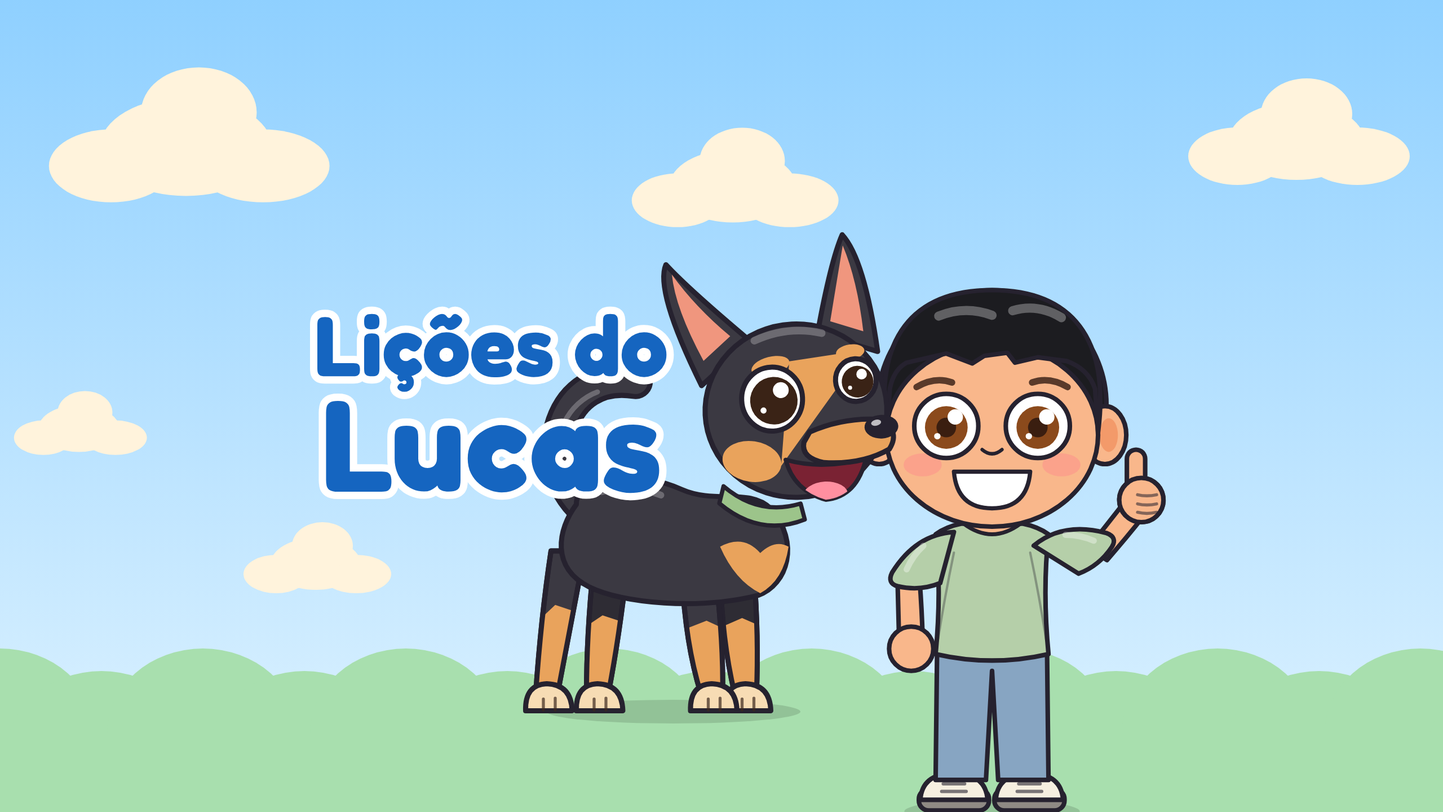
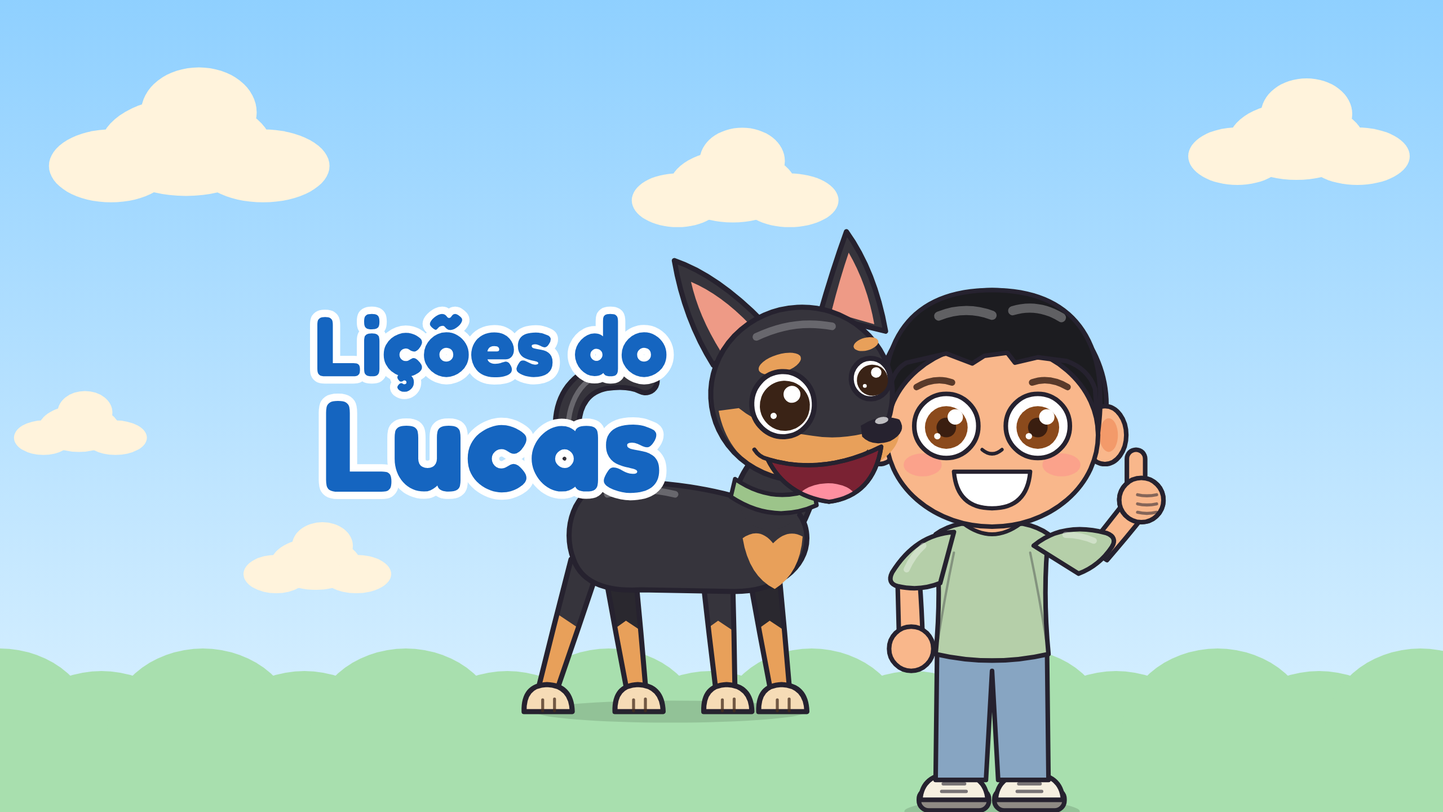
Redraw the Pinscher dog to match the reference more closely
Claude-Session: https://claude.ai/code/session_01EjseYyHodshHVuN5bkj3fj

Changed region(s): [[0.3438, 0.2812, 0.625, 0.9062]]

diff --git a/episodios/ep01-nariz-azul/common.js b/episodios/ep01-nariz-azul/common.js
@@ -442,67 +442,76 @@ function drawLuq(p) {
   ctx.restore();
 }
 
-// ---------- Pinscher dog (black & tan), reference coords: paws at y~1240 ----------
+// ---------- Pinscher dog (black & tan), reference coords: paws on ground y=1190, center x=470 ----------
 function drawPin(p) {
   const OL = 12, S = (f, fn, lw = OL) => shape(f, fn, lw);
-  const blk = '#3b3942', blk2 = '#2e2c34', tan = '#e9a35c', light = '#f7dcb4', pink = '#f0967e';
-  ctx.save(); ctx.translate(p.x, p.y); const sc = (p.s || 1) * 0.5; ctx.scale(sc * (p.flip ? -1 : 1), sc); ctx.translate(-560, -1240);
+  const blk = '#36343c', blk2 = '#2a282f', tan = '#e8a05a', paw = '#f6dcb6', pink = '#ee9a86';
+  ctx.save(); ctx.translate(p.x, p.y); const sc = (p.s || 1) * 0.5; ctx.scale(sc * (p.flip ? -1 : 1), sc); ctx.translate(-470, -1190);
   const t = p.t || 0;
-  ctx.fillStyle = 'rgba(0,0,0,0.13)'; ctx.beginPath(); ctx.ellipse(500, 1240, 300, 28, 0, 0, 7); ctx.fill();
-  // tapered leg with tan "sock" and light paw
-  const leg = (x, top, dx, col) => {
-    const bx = x + dx;
-    const path = () => { ctx.moveTo(x - 40, top); ctx.quadraticCurveTo(x - 44 + dx * 0.4, top + 160, bx - 26, 1196); ctx.lineTo(bx + 26, 1196); ctx.quadraticCurveTo(x + 40 + dx * 0.6, top + 160, x + 40, top); ctx.closePath(); };
-    S(col, path);
-    ctx.save(); ctx.beginPath(); path(); ctx.clip();
-    ctx.fillStyle = tan; ctx.beginPath(); ctx.moveTo(x - 80, 1240); ctx.lineTo(x - 80, top + (1196 - top) * 0.52); ctx.lineTo(x + dx * 0.6, top + (1196 - top) * 0.38); ctx.lineTo(x + 90, top + (1196 - top) * 0.5); ctx.lineTo(x + 90, 1240); ctx.closePath(); ctx.fill();
-    ctx.restore(); S(null, path);
-    S(light, () => { ctx.moveTo(bx - 50, 1238); ctx.quadraticCurveTo(bx - 52, 1176, bx, 1174); ctx.quadraticCurveTo(bx + 58, 1176, bx + 60, 1238); ctx.closePath(); });
-    ctx.strokeStyle = 'rgba(60,40,30,0.7)'; ctx.lineWidth = 7; ctx.beginPath(); ctx.moveTo(bx - 8, 1210); ctx.lineTo(bx - 8, 1236); ctx.moveTo(bx + 20, 1208); ctx.lineTo(bx + 20, 1236); ctx.stroke();
-  };
-  leg(350, 900, -30, blk2); leg(650, 910, 20, blk2); leg(250, 860, -50, blk); leg(560, 920, 30, blk);
-  ctx.save(); ctx.translate(0, 60);
+  ctx.fillStyle = 'rgba(0,0,0,0.13)'; ctx.beginPath(); ctx.ellipse(470, 1190, 320, 26, 0, 0, 7); ctx.fill();
   // tail
-  ctx.save(); ctx.translate(290, 700); ctx.rotate(Math.sin(t * 9) * 0.15);
-  ctx.lineCap = 'round'; ctx.beginPath(); ctx.moveTo(0, 0); ctx.bezierCurveTo(-120, -110, -60, -330, 120, -300);
-  ctx.lineWidth = 58 + OL * 2; ctx.strokeStyle = INK; ctx.stroke(); ctx.lineWidth = 58; ctx.strokeStyle = blk; ctx.stroke();
-  ctx.lineWidth = 12; ctx.strokeStyle = 'rgba(255,255,255,0.25)'; ctx.beginPath(); ctx.moveTo(-60, -90); ctx.bezierCurveTo(-80, -170, -40, -250, 30, -276); ctx.stroke();
+  ctx.save(); ctx.translate(285, 660); ctx.rotate(Math.sin(t * 9) * 0.15);
+  const tailPath = () => { ctx.beginPath(); ctx.moveTo(0, 0); ctx.bezierCurveTo(-80, -80, -90, -240, 30, -262); ctx.quadraticCurveTo(90, -270, 125, -252); };
+  ctx.lineCap = 'round'; tailPath(); ctx.lineWidth = 44 + OL * 2; ctx.strokeStyle = INK; ctx.stroke(); tailPath(); ctx.lineWidth = 44; ctx.strokeStyle = blk; ctx.stroke();
+  ctx.lineWidth = 12; ctx.strokeStyle = 'rgba(255,255,255,0.25)'; ctx.beginPath(); ctx.moveTo(-52, -90); ctx.bezierCurveTo(-72, -170, -40, -250, 20, -268); ctx.stroke();
   ctx.restore();
-  // body
-  S(blk, () => { ctx.moveTo(270, 690); ctx.bezierCurveTo(270, 610, 420, 610, 520, 655); ctx.bezierCurveTo(600, 690, 680, 650, 730, 700); ctx.bezierCurveTo(800, 780, 770, 880, 700, 905); ctx.bezierCurveTo(560, 940, 380, 925, 300, 885); ctx.bezierCurveTo(210, 840, 225, 750, 270, 690); ctx.closePath(); });
-  S(tan, () => { ctx.moveTo(610, 790); ctx.quadraticCurveTo(665, 760, 705, 805); ctx.quadraticCurveTo(740, 772, 772, 790); ctx.quadraticCurveTo(760, 870, 705, 900); ctx.quadraticCurveTo(645, 870, 610, 790); ctx.closePath(); }, 0);
-  ctx.strokeStyle = 'rgba(255,255,255,0.25)'; ctx.lineWidth = 16; ctx.lineCap = 'round'; ctx.beginPath(); ctx.moveTo(330, 660); ctx.quadraticCurveTo(400, 640, 470, 668); ctx.stroke();
+  // legs: tapered, black on top, tan "sock" below, light paw with toes
+  const leg = (xt, top, xb, col) => {
+    const yb = 1150;
+    const path = () => { ctx.moveTo(xt - 36, top); ctx.quadraticCurveTo((xt + xb) / 2 - 30, (top + yb) / 2, xb - 22, yb); ctx.lineTo(xb + 22, yb); ctx.quadraticCurveTo((xt + xb) / 2 + 30, (top + yb) / 2, xt + 36, top); ctx.closePath(); };
+    ctx.beginPath(); path(); ctx.fillStyle = col; ctx.fill();
+    ctx.save(); ctx.beginPath(); path(); ctx.clip();
+    const ys = top + (yb - top) * 0.5, mx = (xt + xb) / 2 + (xb - xt) * 0.1;
+    ctx.fillStyle = tan; ctx.beginPath(); ctx.moveTo(mx - 80, 1200); ctx.lineTo(mx - 80, ys + 20); ctx.lineTo(mx - 10, ys - 30); ctx.lineTo(mx + 80, ys + 30); ctx.lineTo(mx + 80, 1200); ctx.closePath(); ctx.fill();
+    ctx.restore();
+    S(null, path);
+    S(paw, () => { ctx.moveTo(xb - 52, 1190); ctx.quadraticCurveTo(xb - 54, 1128, xb + 2, 1126); ctx.quadraticCurveTo(xb + 60, 1128, xb + 62, 1190); ctx.closePath(); });
+    ctx.strokeStyle = 'rgba(70,45,30,0.75)'; ctx.lineWidth = 7; ctx.lineCap = 'round';
+    ctx.beginPath(); ctx.moveTo(xb - 8, 1162); ctx.lineTo(xb - 8, 1188); ctx.moveTo(xb + 20, 1160); ctx.lineTo(xb + 20, 1188); ctx.stroke();
+  };
+  leg(350, 860, 390, blk2); leg(690, 860, 730, blk2);
+  leg(270, 830, 175, blk); leg(580, 860, 600, blk);
+  // neck + body
+  S(blk, () => { ctx.moveTo(610, 720); ctx.quadraticCurveTo(630, 610, 700, 560); ctx.lineTo(830, 600); ctx.quadraticCurveTo(810, 700, 770, 770); ctx.closePath(); });
+  S(blk, () => { ctx.moveTo(650, 690); ctx.bezierCurveTo(560, 660, 420, 640, 320, 650); ctx.bezierCurveTo(240, 660, 212, 760, 240, 830); ctx.bezierCurveTo(262, 892, 330, 906, 400, 902); ctx.lineTo(620, 906); ctx.bezierCurveTo(722, 906, 792, 850, 792, 780); ctx.bezierCurveTo(792, 730, 760, 700, 720, 680); ctx.closePath(); });
+  // hide the seam between neck and body
+  ctx.fillStyle = blk; ctx.beginPath(); ctx.ellipse(705, 700, 70, 60, 0, 0, 7); ctx.fill();
+  S(tan, () => { ctx.moveTo(640, 780); ctx.quadraticCurveTo(680, 752, 712, 792); ctx.quadraticCurveTo(746, 756, 782, 776); ctx.quadraticCurveTo(776, 862, 716, 900); ctx.quadraticCurveTo(655, 870, 640, 780); ctx.closePath(); }, 0);
+  ctx.strokeStyle = 'rgba(255,255,255,0.25)'; ctx.lineWidth = 16; ctx.lineCap = 'round'; ctx.beginPath(); ctx.moveTo(320, 676); ctx.quadraticCurveTo(400, 656, 480, 676); ctx.stroke();
+  // collar
+  S('#9cc48a', () => { ctx.moveTo(622, 640); ctx.quadraticCurveTo(712, 702, 808, 662); ctx.lineTo(815, 702); ctx.quadraticCurveTo(712, 748, 612, 682); ctx.closePath(); }, 10);
   // head
-  ctx.save(); ctx.translate(760, 680); ctx.rotate(p.tilt || 0); ctx.translate(-760, -680);
-  for (const [bx1, by1, tx, ty, bx2, by2] of [[580, 400, 510, 110, 700, 300], [860, 290, 930, 60, 1000, 340]]) {
-    S(blk, () => { ctx.moveTo(bx1, by1); ctx.quadraticCurveTo(tx - 30, ty + 60, tx, ty); ctx.quadraticCurveTo(tx + 50, ty + 60, bx2, by2); ctx.closePath(); });
-    const cx = (bx1 + bx2 + tx) / 3, cy = (by1 + by2 + ty) / 3;
-    ctx.fillStyle = pink; ctx.beginPath(); ctx.moveTo(cx + (bx1 - cx) * 0.55, cy + (by1 - cy) * 0.55); ctx.quadraticCurveTo(cx + (tx - cx) * 0.6 - 18, cy + (ty - cy) * 0.6 + 40, cx + (tx - cx) * 0.85, cy + (ty - cy) * 0.85); ctx.quadraticCurveTo(cx + (tx - cx) * 0.6 + 30, cy + (ty - cy) * 0.6 + 40, cx + (bx2 - cx) * 0.55, cy + (by2 - cy) * 0.55); ctx.closePath(); ctx.fill();
-  }
-  S('#9cc48a', () => { ctx.moveTo(620, 640); ctx.quadraticCurveTo(700, 715, 800, 690); ctx.lineTo(808, 728); ctx.quadraticCurveTo(700, 765, 608, 680); ctx.closePath(); }, 10);
-  S(blk, ell(800, 470, 215, 205));
-  ctx.strokeStyle = 'rgba(255,255,255,0.25)'; ctx.lineWidth = 18; ctx.beginPath(); ctx.moveTo(710, 300); ctx.quadraticCurveTo(790, 268, 870, 290); ctx.stroke();
-  // cheek + brow tan marks
-  ctx.fillStyle = tan; ctx.beginPath(); ctx.ellipse(690, 585, 70, 48, 0.2, 0, 7); ctx.ellipse(745, 362, 46, 22, -0.2, 0, 7); ctx.ellipse(935, 338, 34, 18, -0.1, 0, 7); ctx.fill();
-  // mouth (under the snout)
-  const open = p.talk ? 0.5 + p.talk * 0.7 : 1;
-  S('#7a2233', () => { ctx.moveTo(770, 585); ctx.quadraticCurveTo(860, 615, 960, 590); ctx.quadraticCurveTo(935, 590 + 90 * open, 860, 594 + 90 * open); ctx.quadraticCurveTo(785, 588 + 70 * open, 770, 585); ctx.closePath(); }, 10);
-  ctx.save(); ctx.beginPath(); ctx.moveTo(770, 585); ctx.quadraticCurveTo(860, 615, 960, 590); ctx.quadraticCurveTo(935, 590 + 90 * open, 860, 594 + 90 * open); ctx.quadraticCurveTo(785, 588 + 70 * open, 770, 585); ctx.clip();
-  ctx.fillStyle = '#ff8fa0'; ctx.beginPath(); ctx.ellipse(860, 590 + 85 * open, 54, 34, 0, 0, 7); ctx.fill(); ctx.restore();
-  // snout
-  S(tan, () => { ctx.moveTo(830, 522); ctx.quadraticCurveTo(910, 492, 990, 500); ctx.quadraticCurveTo(1048, 526, 1016, 572); ctx.quadraticCurveTo(950, 606, 860, 596); ctx.quadraticCurveTo(806, 582, 815, 546); ctx.closePath(); });
+  ctx.save(); ctx.translate(760, 650); ctx.rotate(p.tilt || 0); ctx.translate(-760, -650);
+  S(blk, () => { ctx.moveTo(585, 362); ctx.quadraticCurveTo(522, 250, 505, 110); ctx.quadraticCurveTo(605, 150, 708, 266); ctx.closePath(); });
+  ctx.fillStyle = pink; ctx.beginPath(); ctx.moveTo(604, 330); ctx.quadraticCurveTo(556, 244, 542, 162); ctx.quadraticCurveTo(612, 196, 676, 270); ctx.closePath(); ctx.fill();
+  S(blk, () => { ctx.moveTo(842, 256); ctx.quadraticCurveTo(878, 150, 915, 62); ctx.quadraticCurveTo(978, 160, 996, 302); ctx.closePath(); });
+  ctx.fillStyle = pink; ctx.beginPath(); ctx.moveTo(870, 250); ctx.quadraticCurveTo(894, 172, 918, 112); ctx.quadraticCurveTo(958, 190, 970, 284); ctx.closePath(); ctx.fill();
+  S(blk, ell(790, 440, 215, 205));
+  ctx.strokeStyle = 'rgba(255,255,255,0.25)'; ctx.lineWidth = 18; ctx.lineCap = 'round'; ctx.beginPath(); ctx.moveTo(690, 300); ctx.quadraticCurveTo(780, 262, 870, 284); ctx.stroke();
+  // tan brows
+  ctx.fillStyle = tan; ctx.beginPath(); ctx.ellipse(742, 366, 52, 22, -0.25, 0, 7); ctx.fill(); ctx.beginPath(); ctx.ellipse(948, 330, 30, 15, -0.2, 0, 7); ctx.fill();
+  // tan cheeks/muzzle area (inside the head outline)
+  ctx.save(); ctx.beginPath(); ctx.ellipse(790, 440, 209, 199, 0, 0, 7); ctx.rect(940, 440, 140, 220); ctx.clip();
+  ctx.fillStyle = tan; ctx.beginPath(); ctx.moveTo(592, 470); ctx.quadraticCurveTo(606, 570, 690, 622); ctx.quadraticCurveTo(830, 700, 980, 600); ctx.quadraticCurveTo(1030, 560, 1010, 520); ctx.quadraticCurveTo(900, 560, 810, 540); ctx.quadraticCurveTo(700, 520, 640, 466); ctx.closePath(); ctx.fill();
+  ctx.restore();
+  // mouth
+  const open = p.talk ? 0.45 + p.talk * 0.6 : 1;
+  const mouth = () => { ctx.moveTo(702, 590); ctx.quadraticCurveTo(830, 636, 972, 574); ctx.quadraticCurveTo(948, 574 + 115 * open, 842, 590 + 108 * open); ctx.quadraticCurveTo(740, 582 + 96 * open, 702, 590); ctx.closePath(); };
+  S('#7a2233', mouth, 10);
+  ctx.save(); ctx.beginPath(); mouth(); ctx.clip(); ctx.fillStyle = '#ff8fa0'; ctx.beginPath(); ctx.ellipse(836, 594 + 100 * open, 70, 40, 0, 0, 7); ctx.fill(); ctx.restore();
+  S(null, mouth, 10);
+  ctx.strokeStyle = INK; ctx.lineWidth = 10; ctx.beginPath(); ctx.moveTo(702, 590); ctx.quadraticCurveTo(682, 584, 672, 566); ctx.stroke();
   // eyes
   const eye = (cx, cy, r) => {
-    if (p.blink) { ctx.strokeStyle = INK; ctx.lineWidth = 12; ctx.beginPath(); ctx.moveTo(cx - r, cy); ctx.quadraticCurveTo(cx, cy + r * 0.5, cx + r, cy); ctx.stroke(); return; }
-    S('#ffffff', ell(cx, cy, r, r * 1.05));
-    ctx.fillStyle = '#3a2316'; ctx.beginPath(); ctx.arc(cx + 4, cy + 4, r * 0.78, 0, 7); ctx.fill();
-    ctx.fillStyle = '#fff'; ctx.beginPath(); ctx.arc(cx + r * 0.3, cy - r * 0.28, r * 0.26, 0, 7); ctx.arc(cx - r * 0.3, cy + r * 0.36, r * 0.1, 0, 7); ctx.fill();
+    if (p.blink) { ctx.strokeStyle = INK; ctx.lineWidth = 12; ctx.beginPath(); ctx.moveTo(cx - r * 0.9, cy); ctx.quadraticCurveTo(cx, cy + r * 0.5, cx + r * 0.9, cy); ctx.stroke(); return; }
+    S('#ffffff', ell(cx, cy, r, r * 1.04));
+    ctx.fillStyle = '#3a2316'; ctx.beginPath(); ctx.arc(cx + 4, cy + 4, r * 0.8, 0, 7); ctx.fill();
+    ctx.fillStyle = '#fff'; ctx.beginPath(); ctx.arc(cx + r * 0.3, cy - r * 0.3, r * 0.27, 0, 7); ctx.arc(cx - r * 0.32, cy + r * 0.36, r * 0.1, 0, 7); ctx.fill();
   };
-  eye(745, 440, 72); eye(945, 405, 48);
+  eye(745, 462, 74); eye(955, 412, 46);
   // nose
-  S(INK, ell(1000, 518, 40, 28), 0);
-  ctx.fillStyle = 'rgba(255,255,255,0.7)'; ctx.beginPath(); ctx.ellipse(988, 508, 12, 7, -0.2, 0, 7); ctx.fill();
-  ctx.restore();
+  S(INK, () => { ctx.moveTo(926, 522); ctx.quadraticCurveTo(974, 494, 1018, 512); ctx.quadraticCurveTo(1036, 542, 994, 562); ctx.quadraticCurveTo(950, 574, 928, 548); ctx.closePath(); }, 0);
+  ctx.fillStyle = 'rgba(255,255,255,0.7)'; ctx.beginPath(); ctx.ellipse(976, 512, 16, 8, -0.15, 0, 7); ctx.fill();
   ctx.restore();
   ctx.restore();
 }

diff --git a/identidade/common.js b/identidade/common.js
@@ -442,67 +442,76 @@ function drawLuq(p) {
   ctx.restore();
 }
 
-// ---------- Pinscher dog (black & tan), reference coords: paws at y~1240 ----------
+// ---------- Pinscher dog (black & tan), reference coords: paws on ground y=1190, center x=470 ----------
 function drawPin(p) {
   const OL = 12, S = (f, fn, lw = OL) => shape(f, fn, lw);
-  const blk = '#3b3942', blk2 = '#2e2c34', tan = '#e9a35c', light = '#f7dcb4', pink = '#f0967e';
-  ctx.save(); ctx.translate(p.x, p.y); const sc = (p.s || 1) * 0.5; ctx.scale(sc * (p.flip ? -1 : 1), sc); ctx.translate(-560, -1240);
+  const blk = '#36343c', blk2 = '#2a282f', tan = '#e8a05a', paw = '#f6dcb6', pink = '#ee9a86';
+  ctx.save(); ctx.translate(p.x, p.y); const sc = (p.s || 1) * 0.5; ctx.scale(sc * (p.flip ? -1 : 1), sc); ctx.translate(-470, -1190);
   const t = p.t || 0;
-  ctx.fillStyle = 'rgba(0,0,0,0.13)'; ctx.beginPath(); ctx.ellipse(500, 1240, 300, 28, 0, 0, 7); ctx.fill();
-  // tapered leg with tan "sock" and light paw
-  const leg = (x, top, dx, col) => {
-    const bx = x + dx;
-    const path = () => { ctx.moveTo(x - 40, top); ctx.quadraticCurveTo(x - 44 + dx * 0.4, top + 160, bx - 26, 1196); ctx.lineTo(bx + 26, 1196); ctx.quadraticCurveTo(x + 40 + dx * 0.6, top + 160, x + 40, top); ctx.closePath(); };
-    S(col, path);
-    ctx.save(); ctx.beginPath(); path(); ctx.clip();
-    ctx.fillStyle = tan; ctx.beginPath(); ctx.moveTo(x - 80, 1240); ctx.lineTo(x - 80, top + (1196 - top) * 0.52); ctx.lineTo(x + dx * 0.6, top + (1196 - top) * 0.38); ctx.lineTo(x + 90, top + (1196 - top) * 0.5); ctx.lineTo(x + 90, 1240); ctx.closePath(); ctx.fill();
-    ctx.restore(); S(null, path);
-    S(light, () => { ctx.moveTo(bx - 50, 1238); ctx.quadraticCurveTo(bx - 52, 1176, bx, 1174); ctx.quadraticCurveTo(bx + 58, 1176, bx + 60, 1238); ctx.closePath(); });
-    ctx.strokeStyle = 'rgba(60,40,30,0.7)'; ctx.lineWidth = 7; ctx.beginPath(); ctx.moveTo(bx - 8, 1210); ctx.lineTo(bx - 8, 1236); ctx.moveTo(bx + 20, 1208); ctx.lineTo(bx + 20, 1236); ctx.stroke();
-  };
-  leg(350, 900, -30, blk2); leg(650, 910, 20, blk2); leg(250, 860, -50, blk); leg(560, 920, 30, blk);
-  ctx.save(); ctx.translate(0, 60);
+  ctx.fillStyle = 'rgba(0,0,0,0.13)'; ctx.beginPath(); ctx.ellipse(470, 1190, 320, 26, 0, 0, 7); ctx.fill();
   // tail
-  ctx.save(); ctx.translate(290, 700); ctx.rotate(Math.sin(t * 9) * 0.15);
-  ctx.lineCap = 'round'; ctx.beginPath(); ctx.moveTo(0, 0); ctx.bezierCurveTo(-120, -110, -60, -330, 120, -300);
-  ctx.lineWidth = 58 + OL * 2; ctx.strokeStyle = INK; ctx.stroke(); ctx.lineWidth = 58; ctx.strokeStyle = blk; ctx.stroke();
-  ctx.lineWidth = 12; ctx.strokeStyle = 'rgba(255,255,255,0.25)'; ctx.beginPath(); ctx.moveTo(-60, -90); ctx.bezierCurveTo(-80, -170, -40, -250, 30, -276); ctx.stroke();
+  ctx.save(); ctx.translate(285, 660); ctx.rotate(Math.sin(t * 9) * 0.15);
+  const tailPath = () => { ctx.beginPath(); ctx.moveTo(0, 0); ctx.bezierCurveTo(-80, -80, -90, -240, 30, -262); ctx.quadraticCurveTo(90, -270, 125, -252); };
+  ctx.lineCap = 'round'; tailPath(); ctx.lineWidth = 44 + OL * 2; ctx.strokeStyle = INK; ctx.stroke(); tailPath(); ctx.lineWidth = 44; ctx.strokeStyle = blk; ctx.stroke();
+  ctx.lineWidth = 12; ctx.strokeStyle = 'rgba(255,255,255,0.25)'; ctx.beginPath(); ctx.moveTo(-52, -90); ctx.bezierCurveTo(-72, -170, -40, -250, 20, -268); ctx.stroke();
   ctx.restore();
-  // body
-  S(blk, () => { ctx.moveTo(270, 690); ctx.bezierCurveTo(270, 610, 420, 610, 520, 655); ctx.bezierCurveTo(600, 690, 680, 650, 730, 700); ctx.bezierCurveTo(800, 780, 770, 880, 700, 905); ctx.bezierCurveTo(560, 940, 380, 925, 300, 885); ctx.bezierCurveTo(210, 840, 225, 750, 270, 690); ctx.closePath(); });
-  S(tan, () => { ctx.moveTo(610, 790); ctx.quadraticCurveTo(665, 760, 705, 805); ctx.quadraticCurveTo(740, 772, 772, 790); ctx.quadraticCurveTo(760, 870, 705, 900); ctx.quadraticCurveTo(645, 870, 610, 790); ctx.closePath(); }, 0);
-  ctx.strokeStyle = 'rgba(255,255,255,0.25)'; ctx.lineWidth = 16; ctx.lineCap = 'round'; ctx.beginPath(); ctx.moveTo(330, 660); ctx.quadraticCurveTo(400, 640, 470, 668); ctx.stroke();
+  // legs: tapered, black on top, tan "sock" below, light paw with toes
+  const leg = (xt, top, xb, col) => {
+    const yb = 1150;
+    const path = () => { ctx.moveTo(xt - 36, top); ctx.quadraticCurveTo((xt + xb) / 2 - 30, (top + yb) / 2, xb - 22, yb); ctx.lineTo(xb + 22, yb); ctx.quadraticCurveTo((xt + xb) / 2 + 30, (top + yb) / 2, xt + 36, top); ctx.closePath(); };
+    ctx.beginPath(); path(); ctx.fillStyle = col; ctx.fill();
+    ctx.save(); ctx.beginPath(); path(); ctx.clip();
+    const ys = top + (yb - top) * 0.5, mx = (xt + xb) / 2 + (xb - xt) * 0.1;
+    ctx.fillStyle = tan; ctx.beginPath(); ctx.moveTo(mx - 80, 1200); ctx.lineTo(mx - 80, ys + 20); ctx.lineTo(mx - 10, ys - 30); ctx.lineTo(mx + 80, ys + 30); ctx.lineTo(mx + 80, 1200); ctx.closePath(); ctx.fill();
+    ctx.restore();
+    S(null, path);
+    S(paw, () => { ctx.moveTo(xb - 52, 1190); ctx.quadraticCurveTo(xb - 54, 1128, xb + 2, 1126); ctx.quadraticCurveTo(xb + 60, 1128, xb + 62, 1190); ctx.closePath(); });
+    ctx.strokeStyle = 'rgba(70,45,30,0.75)'; ctx.lineWidth = 7; ctx.lineCap = 'round';
+    ctx.beginPath(); ctx.moveTo(xb - 8, 1162); ctx.lineTo(xb - 8, 1188); ctx.moveTo(xb + 20, 1160); ctx.lineTo(xb + 20, 1188); ctx.stroke();
+  };
+  leg(350, 860, 390, blk2); leg(690, 860, 730, blk2);
+  leg(270, 830, 175, blk); leg(580, 860, 600, blk);
+  // neck + body
+  S(blk, () => { ctx.moveTo(610, 720); ctx.quadraticCurveTo(630, 610, 700, 560); ctx.lineTo(830, 600); ctx.quadraticCurveTo(810, 700, 770, 770); ctx.closePath(); });
+  S(blk, () => { ctx.moveTo(650, 690); ctx.bezierCurveTo(560, 660, 420, 640, 320, 650); ctx.bezierCurveTo(240, 660, 212, 760, 240, 830); ctx.bezierCurveTo(262, 892, 330, 906, 400, 902); ctx.lineTo(620, 906); ctx.bezierCurveTo(722, 906, 792, 850, 792, 780); ctx.bezierCurveTo(792, 730, 760, 700, 720, 680); ctx.closePath(); });
+  // hide the seam between neck and body
+  ctx.fillStyle = blk; ctx.beginPath(); ctx.ellipse(705, 700, 70, 60, 0, 0, 7); ctx.fill();
+  S(tan, () => { ctx.moveTo(640, 780); ctx.quadraticCurveTo(680, 752, 712, 792); ctx.quadraticCurveTo(746, 756, 782, 776); ctx.quadraticCurveTo(776, 862, 716, 900); ctx.quadraticCurveTo(655, 870, 640, 780); ctx.closePath(); }, 0);
+  ctx.strokeStyle = 'rgba(255,255,255,0.25)'; ctx.lineWidth = 16; ctx.lineCap = 'round'; ctx.beginPath(); ctx.moveTo(320, 676); ctx.quadraticCurveTo(400, 656, 480, 676); ctx.stroke();
+  // collar
+  S('#9cc48a', () => { ctx.moveTo(622, 640); ctx.quadraticCurveTo(712, 702, 808, 662); ctx.lineTo(815, 702); ctx.quadraticCurveTo(712, 748, 612, 682); ctx.closePath(); }, 10);
   // head
-  ctx.save(); ctx.translate(760, 680); ctx.rotate(p.tilt || 0); ctx.translate(-760, -680);
-  for (const [bx1, by1, tx, ty, bx2, by2] of [[580, 400, 510, 110, 700, 300], [860, 290, 930, 60, 1000, 340]]) {
-    S(blk, () => { ctx.moveTo(bx1, by1); ctx.quadraticCurveTo(tx - 30, ty + 60, tx, ty); ctx.quadraticCurveTo(tx + 50, ty + 60, bx2, by2); ctx.closePath(); });
-    const cx = (bx1 + bx2 + tx) / 3, cy = (by1 + by2 + ty) / 3;
-    ctx.fillStyle = pink; ctx.beginPath(); ctx.moveTo(cx + (bx1 - cx) * 0.55, cy + (by1 - cy) * 0.55); ctx.quadraticCurveTo(cx + (tx - cx) * 0.6 - 18, cy + (ty - cy) * 0.6 + 40, cx + (tx - cx) * 0.85, cy + (ty - cy) * 0.85); ctx.quadraticCurveTo(cx + (tx - cx) * 0.6 + 30, cy + (ty - cy) * 0.6 + 40, cx + (bx2 - cx) * 0.55, cy + (by2 - cy) * 0.55); ctx.closePath(); ctx.fill();
-  }
-  S('#9cc48a', () => { ctx.moveTo(620, 640); ctx.quadraticCurveTo(700, 715, 800, 690); ctx.lineTo(808, 728); ctx.quadraticCurveTo(700, 765, 608, 680); ctx.closePath(); }, 10);
-  S(blk, ell(800, 470, 215, 205));
-  ctx.strokeStyle = 'rgba(255,255,255,0.25)'; ctx.lineWidth = 18; ctx.beginPath(); ctx.moveTo(710, 300); ctx.quadraticCurveTo(790, 268, 870, 290); ctx.stroke();
-  // cheek + brow tan marks
-  ctx.fillStyle = tan; ctx.beginPath(); ctx.ellipse(690, 585, 70, 48, 0.2, 0, 7); ctx.ellipse(745, 362, 46, 22, -0.2, 0, 7); ctx.ellipse(935, 338, 34, 18, -0.1, 0, 7); ctx.fill();
-  // mouth (under the snout)
-  const open = p.talk ? 0.5 + p.talk * 0.7 : 1;
-  S('#7a2233', () => { ctx.moveTo(770, 585); ctx.quadraticCurveTo(860, 615, 960, 590); ctx.quadraticCurveTo(935, 590 + 90 * open, 860, 594 + 90 * open); ctx.quadraticCurveTo(785, 588 + 70 * open, 770, 585); ctx.closePath(); }, 10);
-  ctx.save(); ctx.beginPath(); ctx.moveTo(770, 585); ctx.quadraticCurveTo(860, 615, 960, 590); ctx.quadraticCurveTo(935, 590 + 90 * open, 860, 594 + 90 * open); ctx.quadraticCurveTo(785, 588 + 70 * open, 770, 585); ctx.clip();
-  ctx.fillStyle = '#ff8fa0'; ctx.beginPath(); ctx.ellipse(860, 590 + 85 * open, 54, 34, 0, 0, 7); ctx.fill(); ctx.restore();
-  // snout
-  S(tan, () => { ctx.moveTo(830, 522); ctx.quadraticCurveTo(910, 492, 990, 500); ctx.quadraticCurveTo(1048, 526, 1016, 572); ctx.quadraticCurveTo(950, 606, 860, 596); ctx.quadraticCurveTo(806, 582, 815, 546); ctx.closePath(); });
+  ctx.save(); ctx.translate(760, 650); ctx.rotate(p.tilt || 0); ctx.translate(-760, -650);
+  S(blk, () => { ctx.moveTo(585, 362); ctx.quadraticCurveTo(522, 250, 505, 110); ctx.quadraticCurveTo(605, 150, 708, 266); ctx.closePath(); });
+  ctx.fillStyle = pink; ctx.beginPath(); ctx.moveTo(604, 330); ctx.quadraticCurveTo(556, 244, 542, 162); ctx.quadraticCurveTo(612, 196, 676, 270); ctx.closePath(); ctx.fill();
+  S(blk, () => { ctx.moveTo(842, 256); ctx.quadraticCurveTo(878, 150, 915, 62); ctx.quadraticCurveTo(978, 160, 996, 302); ctx.closePath(); });
+  ctx.fillStyle = pink; ctx.beginPath(); ctx.moveTo(870, 250); ctx.quadraticCurveTo(894, 172, 918, 112); ctx.quadraticCurveTo(958, 190, 970, 284); ctx.closePath(); ctx.fill();
+  S(blk, ell(790, 440, 215, 205));
+  ctx.strokeStyle = 'rgba(255,255,255,0.25)'; ctx.lineWidth = 18; ctx.lineCap = 'round'; ctx.beginPath(); ctx.moveTo(690, 300); ctx.quadraticCurveTo(780, 262, 870, 284); ctx.stroke();
+  // tan brows
+  ctx.fillStyle = tan; ctx.beginPath(); ctx.ellipse(742, 366, 52, 22, -0.25, 0, 7); ctx.fill(); ctx.beginPath(); ctx.ellipse(948, 330, 30, 15, -0.2, 0, 7); ctx.fill();
+  // tan cheeks/muzzle area (inside the head outline)
+  ctx.save(); ctx.beginPath(); ctx.ellipse(790, 440, 209, 199, 0, 0, 7); ctx.rect(940, 440, 140, 220); ctx.clip();
+  ctx.fillStyle = tan; ctx.beginPath(); ctx.moveTo(592, 470); ctx.quadraticCurveTo(606, 570, 690, 622); ctx.quadraticCurveTo(830, 700, 980, 600); ctx.quadraticCurveTo(1030, 560, 1010, 520); ctx.quadraticCurveTo(900, 560, 810, 540); ctx.quadraticCurveTo(700, 520, 640, 466); ctx.closePath(); ctx.fill();
+  ctx.restore();
+  // mouth
+  const open = p.talk ? 0.45 + p.talk * 0.6 : 1;
+  const mouth = () => { ctx.moveTo(702, 590); ctx.quadraticCurveTo(830, 636, 972, 574); ctx.quadraticCurveTo(948, 574 + 115 * open, 842, 590 + 108 * open); ctx.quadraticCurveTo(740, 582 + 96 * open, 702, 590); ctx.closePath(); };
+  S('#7a2233', mouth, 10);
+  ctx.save(); ctx.beginPath(); mouth(); ctx.clip(); ctx.fillStyle = '#ff8fa0'; ctx.beginPath(); ctx.ellipse(836, 594 + 100 * open, 70, 40, 0, 0, 7); ctx.fill(); ctx.restore();
+  S(null, mouth, 10);
+  ctx.strokeStyle = INK; ctx.lineWidth = 10; ctx.beginPath(); ctx.moveTo(702, 590); ctx.quadraticCurveTo(682, 584, 672, 566); ctx.stroke();
   // eyes
   const eye = (cx, cy, r) => {
-    if (p.blink) { ctx.strokeStyle = INK; ctx.lineWidth = 12; ctx.beginPath(); ctx.moveTo(cx - r, cy); ctx.quadraticCurveTo(cx, cy + r * 0.5, cx + r, cy); ctx.stroke(); return; }
-    S('#ffffff', ell(cx, cy, r, r * 1.05));
-    ctx.fillStyle = '#3a2316'; ctx.beginPath(); ctx.arc(cx + 4, cy + 4, r * 0.78, 0, 7); ctx.fill();
-    ctx.fillStyle = '#fff'; ctx.beginPath(); ctx.arc(cx + r * 0.3, cy - r * 0.28, r * 0.26, 0, 7); ctx.arc(cx - r * 0.3, cy + r * 0.36, r * 0.1, 0, 7); ctx.fill();
+    if (p.blink) { ctx.strokeStyle = INK; ctx.lineWidth = 12; ctx.beginPath(); ctx.moveTo(cx - r * 0.9, cy); ctx.quadraticCurveTo(cx, cy + r * 0.5, cx + r * 0.9, cy); ctx.stroke(); return; }
+    S('#ffffff', ell(cx, cy, r, r * 1.04));
+    ctx.fillStyle = '#3a2316'; ctx.beginPath(); ctx.arc(cx + 4, cy + 4, r * 0.8, 0, 7); ctx.fill();
+    ctx.fillStyle = '#fff'; ctx.beginPath(); ctx.arc(cx + r * 0.3, cy - r * 0.3, r * 0.27, 0, 7); ctx.arc(cx - r * 0.32, cy + r * 0.36, r * 0.1, 0, 7); ctx.fill();
   };
-  eye(745, 440, 72); eye(945, 405, 48);
+  eye(745, 462, 74); eye(955, 412, 46);
   // nose
-  S(INK, ell(1000, 518, 40, 28), 0);
-  ctx.fillStyle = 'rgba(255,255,255,0.7)'; ctx.beginPath(); ctx.ellipse(988, 508, 12, 7, -0.2, 0, 7); ctx.fill();
-  ctx.restore();
+  S(INK, () => { ctx.moveTo(926, 522); ctx.quadraticCurveTo(974, 494, 1018, 512); ctx.quadraticCurveTo(1036, 542, 994, 562); ctx.quadraticCurveTo(950, 574, 928, 548); ctx.closePath(); }, 0);
+  ctx.fillStyle = 'rgba(255,255,255,0.7)'; ctx.beginPath(); ctx.ellipse(976, 512, 16, 8, -0.15, 0, 7); ctx.fill();
   ctx.restore();
   ctx.restore();
 }

diff --git a/identidade/dog.html b/identidade/dog.html
@@ -2,6 +2,6 @@
 <script>let ctx; const INK = '#26222f'; const LW = 7;</script>
 <script src="common.js"></script>
 <script>
-window.exportAll = () => { const c = document.createElement('canvas'); c.width = 1200; c.height = 1300; ctx = c.getContext('2d'); drawPin({ x: 620, y: 1270, s: 2 }); return { dog: c.toDataURL('image/png') }; };
+window.exportAll = () => { const c = document.createElement('canvas'); c.width = 1200; c.height = 1300; ctx = c.getContext('2d'); drawPin({ x: 560, y: 1260, s: 2 }); return { dog: c.toDataURL('image/png') }; };
 window.ready = Promise.resolve(true);
 </script></body></html>

diff --git a/identidade/banner.html b/identidade/banner.html
@@ -39,7 +39,7 @@ function draw(showSafe) {
   ctx.fillRect(0, 1300, 2560, 200);
   // Lucas (thumbs up) then the dog in front of his shoulder
   person({ ...LUQ, x: 1760, y: 1440, s: 1.65, expr: 'grin', armR: 2.5, thumbR: true });
-  drawPin({ x: 1240, y: 1262, s: 1.5, tilt: -0.05 });
+  drawPin({ x: 1190, y: 1262, s: 1.5, tilt: -0.05 });
   // title
   ctx.textAlign = 'center'; ctx.textBaseline = 'middle';
   ctx.font = '700 150px Fredoka'; ctx.lineWidth = 26; ctx.strokeStyle = '#ffffff'; ctx.lineJoin = 'round';
